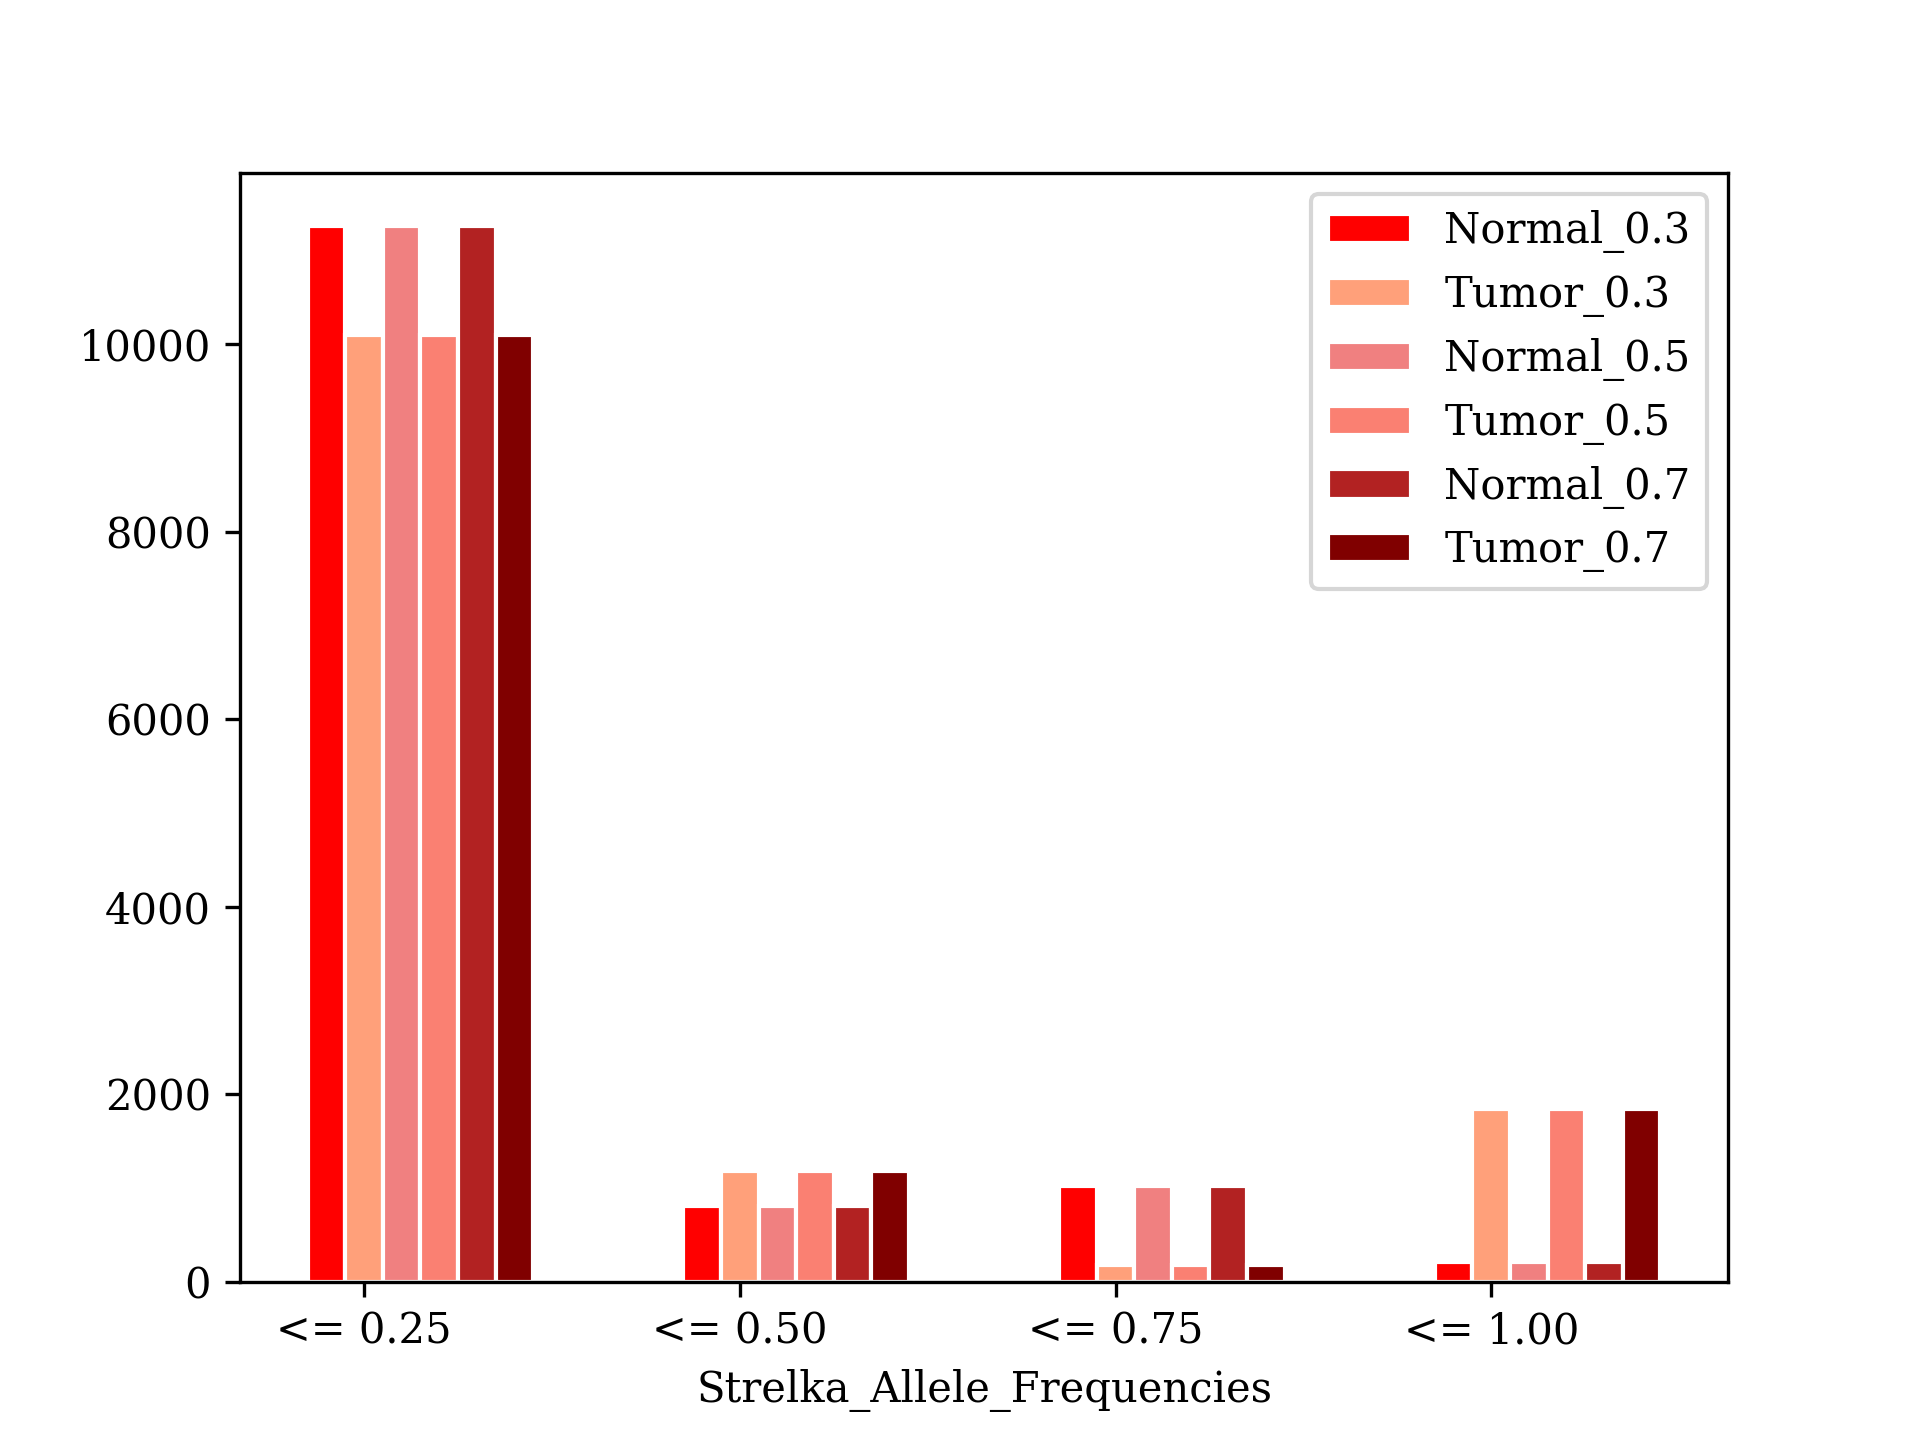
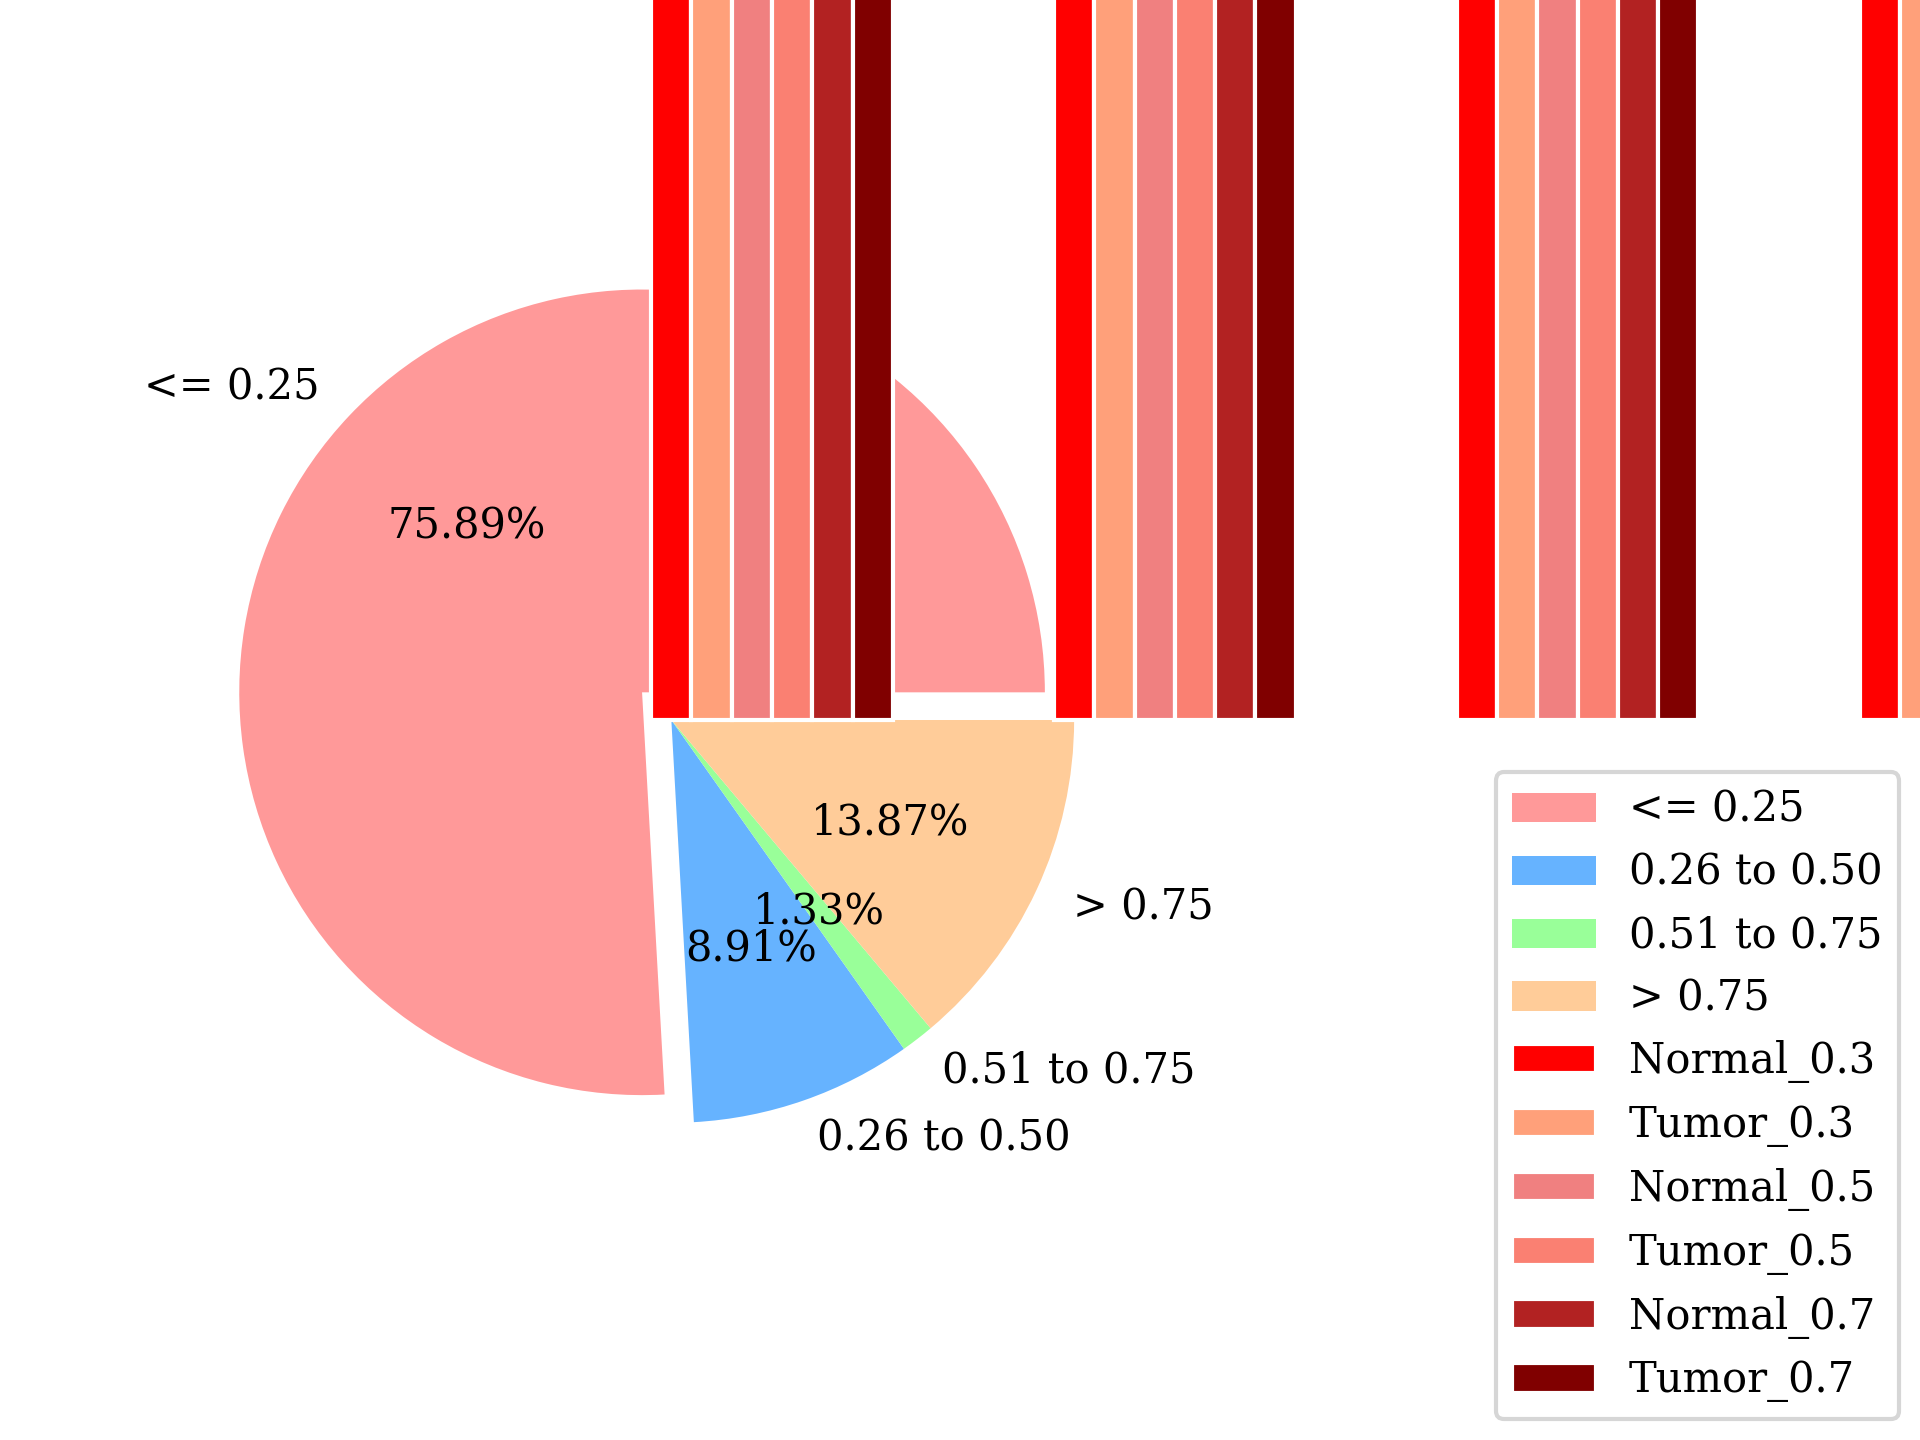
Adding modified code and plots.

diff --git a/Allele_Frequency/Strelka/Background_Files/Code.py b/Allele_Frequency/Strelka/Background_Files/Code.py
@@ -522,6 +522,26 @@ width = 0.10
 # a3 = Third_Column
 # a4 = Fourth_Column
 
+fig = plt.figure()
+ax = fig.add_axes([0,0,1,1])
+ax.axis('equal')
+langs = ['<= 0.25', '0.26 to 0.50', '0.51 to 0.75', '> 0.75']
+explode = (0.1, 0, 0, 0)
+colors = ['#ff9999','#66b3ff','#99ff99','#ffcc99']
+ax.pie(a1, explode=explode, labels = langs, colors=colors, autopct='%1.2f%%')
+ax.set_title('Normal Allele Frequency Counts Percentage')
+plt.savefig('Strelka_Normal_Allele_Frequency.png', dpi = 300)
+
+fig1 = plt.figure()
+ax1 = fig1.add_axes([0,0,1,1])
+ax1.axis('equal')
+langs = ['<= 0.25', '0.26 to 0.50', '0.51 to 0.75', '> 0.75']
+explode = (0.1, 0, 0, 0)
+colors = ['#ff9999','#66b3ff','#99ff99','#ffcc99']
+ax1.pie(a2, explode=explode, labels = langs, colors=colors, autopct='%1.2f%%')
+ax1.set_title('Normal Allele Frequency Counts Percentage')
+plt.savefig('Strelka_Tumor_Allele_Frequency.png', dpi = 300)
+
 # Set position of bar on X axis
 r1 = np.arange(len(a1))
 r2 = [x + width for x in r1]

diff --git a/Allele_Frequency/VarScan/Background_Files/Code.py b/Allele_Frequency/VarScan/Background_Files/Code.py
@@ -114,6 +114,26 @@ print(a1)
 print(a2)
 print(a3)
 
+fig = plt.figure()
+ax = fig.add_axes([0,0,1,1])
+ax.axis('equal')
+langs = ['<= 0.25', '0.26 to 0.50', '0.51 to 0.75', '> 0.75']
+explode = (0.1, 0, 0, 0)
+colors = ['#ff9999','#66b3ff','#99ff99','#ffcc99']
+ax.pie(a1, explode=explode, labels = langs, colors=colors, autopct='%1.2f%%')
+ax.set_title('Normal Allele Frequency Counts Percentage')
+plt.savefig('VarScan_Normal_Allele_Frequency.png', dpi = 300)
+
+fig1 = plt.figure()
+ax1 = fig1.add_axes([0,0,1,1])
+ax1.axis('equal')
+langs = ['<= 0.25', '0.26 to 0.50', '0.51 to 0.75', '> 0.75']
+explode = (0.1, 0, 0, 0)
+colors = ['#ff9999','#66b3ff','#99ff99','#ffcc99']
+ax1.pie(a2, explode=explode, labels = langs, colors=colors, autopct='%1.2f%%')
+ax1.set_title('Normal Allele Frequency Counts Percentage')
+plt.savefig('VarScan_Tumor_Allele_Frequency.png', dpi = 300)
+
 # set width of bar
 width = 0.15
 

diff --git a/Allele_Frequency/Comparisons/Tumor_Purity_0.3/Background_Files/Code.py b/Allele_Frequency/Comparisons/Tumor_Purity_0.3/Background_Files/Code.py
@@ -97,6 +97,7 @@ print(a2)
 print(a3)
 print(a4)
 
+
 # Set position of bar on X axis
 r1 = np.arange(len(a1))
 r2 = [x + width for x in r1]
